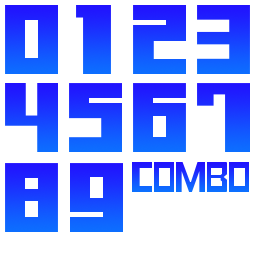
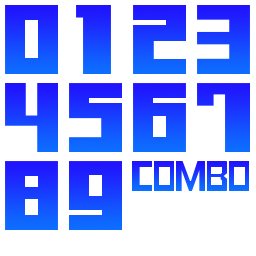
#35666 選曲画面の描画の座標値を修正、GRのコンボ画像を微修正
git-svn-id: http://svn.osdn.jp/svnroot/dtxmania/trunk@866 16f42ceb-6dc6-49c8-ba94-f2d53467949d

diff --git a/DTXManiaプロジェクト/コード/ステージ/05.選曲/CActSelect曲リスト.cs b/DTXManiaプロジェクト/コード/ステージ/05.選曲/CActSelect曲リスト.cs
@@ -840,7 +840,7 @@ namespace DTXMania
 							int width = (int) ( (425.0 -0.8f)* Scale.X / Math.Sin( Math.PI * 3 / 5 ) );
 							//int width = (int) ( ( (double) ( ( SampleFramework.GameWindowSize.Width - this.ptバーの基本座標[ i ].X ) + 1 ) ) / Math.Sin( Math.PI * 3 / 5 ) );
 							int x = SampleFramework.GameWindowSize.Width - ( (int) ( width * db回転率 ) );
-							int y = (int)(181* Scale.Y);
+							int y = 415;
 							this.tバーの描画( x, y, this.stバー情報[ nパネル番号 ].eバー種別, true );
 							//-----------------
 							#endregion
@@ -850,15 +850,16 @@ namespace DTXMania
 								this.stバー情報[ nパネル番号 ].txタイトル名.t2D描画(
 									CDTXMania.app.Device,
 									( x + (int) ( 44 * Scale.X ) ) + (int) ( (16f+0.5f) * Scale.X ),
+									y + 35
 									//( y + (int) ( 0 * Scale.Y ) ) + (int) ( 16 * Scale.Y )
-									( y + (int) ( 5 * Scale.Y ) ) + (int) ( (16f-2f) * Scale.Y)
+									// ( y + (int) ( 5 * Scale.Y ) ) + (int) ( (16f-2f) * Scale.Y)
 								);
 							//-----------------
 							#endregion
 							#region [ スキル値を描画。]
 							//-----------------
 							if( ( this.stバー情報[ nパネル番号 ].eバー種別 == Eバー種別.Score ) && ( this.e楽器パート != E楽器パート.UNKNOWN ) )
-								this.tスキル値の描画( x + (int)(28 * Scale.X), y + (int)(30 * Scale.Y), this.stバー情報[ nパネル番号 ].nスキル値[ (int) this.e楽器パート ] );
+								this.tスキル値の描画( x + (int)(28 * Scale.X), y + (int)(59), this.stバー情報[ nパネル番号 ].nスキル値[ (int) this.e楽器パート ] );
 							//-----------------
 							#endregion
 						}
@@ -880,7 +881,7 @@ namespace DTXMania
 								this.stバー情報[ nパネル番号 ].txタイトル名.t2D描画(
 									CDTXMania.app.Device,
 									x + (int)(44 * Scale.X),
-									y + (int)(3 * Scale.Y)
+									y + 7
 								);
 							//-----------------
 							#endregion
@@ -918,7 +919,7 @@ namespace DTXMania
 
 						#region [ バーテクスチャを描画。]
 						//-----------------
-						this.tバーの描画( (int) ( 216 * Scale.X ), (int) ( 181 * Scale.Y ), this.stバー情報[ nパネル番号 ].eバー種別, true );
+						this.tバーの描画( (int) ( 216 * Scale.X ), (int) ( 415 ), this.stバー情報[ nパネル番号 ].eバー種別, true );
 						//-----------------
 						#endregion
 						#region [ タイトル名テクスチャを描画。]
@@ -929,7 +930,7 @@ namespace DTXMania
 								//0x114 * Scale.X,
 								//(0xc9 - 1)* Scale.Y
 								( x + ( (44f + 0.5f) * Scale.X ) ),
-								( y + (int) ( 3 * Scale.Y ) )
+								( y + 7 )
 							);
 						//-----------------
 						#endregion
@@ -959,7 +960,7 @@ namespace DTXMania
 							this.stバー情報[ nパネル番号 ].txタイトル名.t2D描画(
 								CDTXMania.app.Device,
 								x + (int)(44 * Scale.X),
-								y + (int)(3 * Scale.Y)
+								y + 7
 							);
 						//-----------------
 						#endregion
@@ -1324,7 +1325,7 @@ namespace DTXMania
 							0,
 							0,
 							128,	//(int) ( 64 * Scale.X ),
-							64		//(int) ( 32 * Scale.Y )
+							69		//(int) ( 32 * Scale.Y )
 							//(int)(64 * Scale.X),
 							//(int)(32 * Scale.Y)
 						)
@@ -1335,7 +1336,7 @@ namespace DTXMania
 					64,
 					0,
 					64,
-					64
+					69
 					//0,
 					//(int)(32 * Scale.Y),
 					//(int)(64 * Scale.X),
